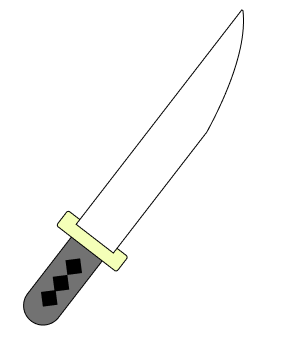
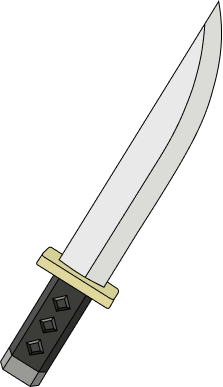
画像の差し替え、位置調整

diff --git a/electron-app/src/renderer/src/components/BlacklistModal.jsx b/electron-app/src/renderer/src/components/BlacklistModal.jsx
@@ -9,7 +9,7 @@ export default function BlacklistModal({
       onMouseMove={(e) => e.stopPropagation()}
       className="hide-scrollbar"
       style={{
-        position: 'absolute', top: '-260px', right: '-5px', width: '250px', height: '240px',
+        position: 'absolute', top: '-225px', right: '-10px', width: '230px', height: '240px',
         background: 'rgba(255, 255, 255, 0.98)', border: '4px solid #444', borderRadius: '12px',
         padding: '12px', display: 'flex', flexDirection: 'column', zIndex: 20,
         boxShadow: '0 8px 16px rgba(0,0,0,0.3)', WebkitAppRegion: 'no-drag'
